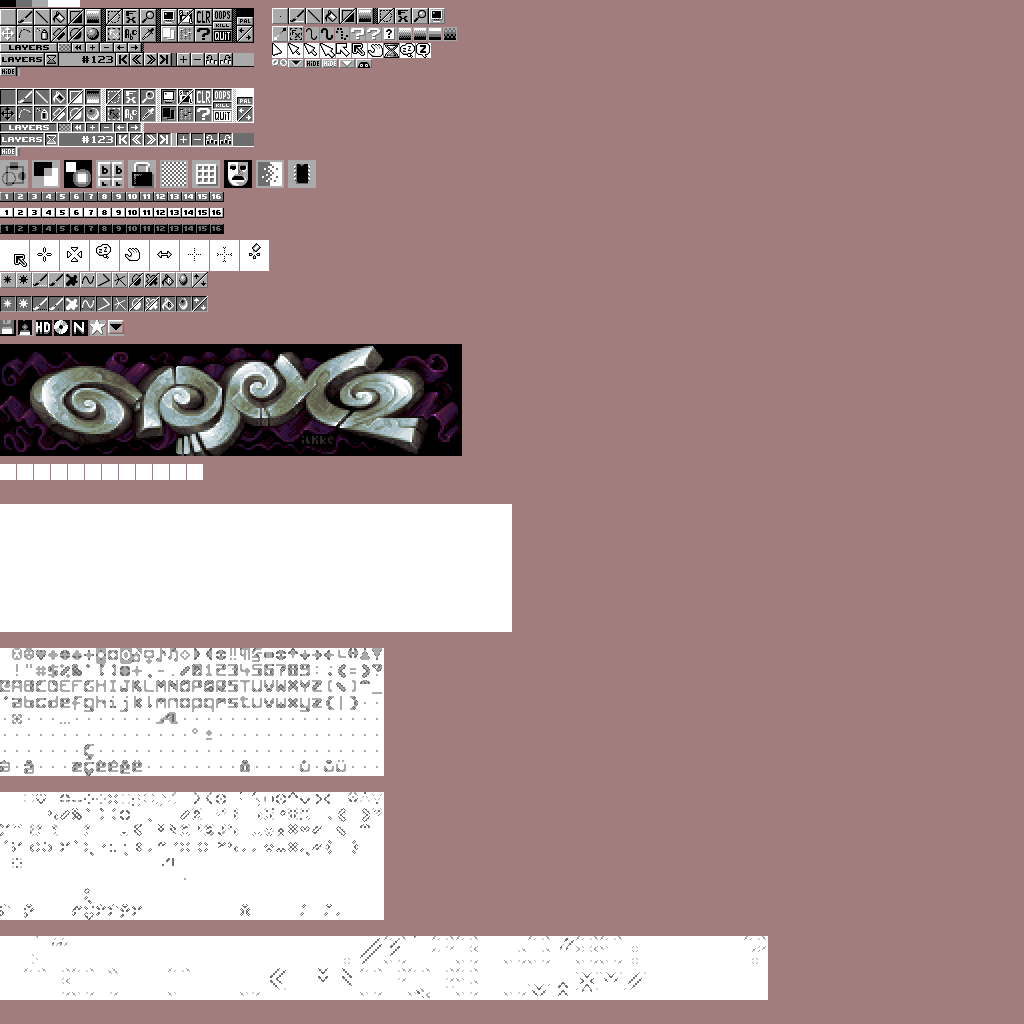
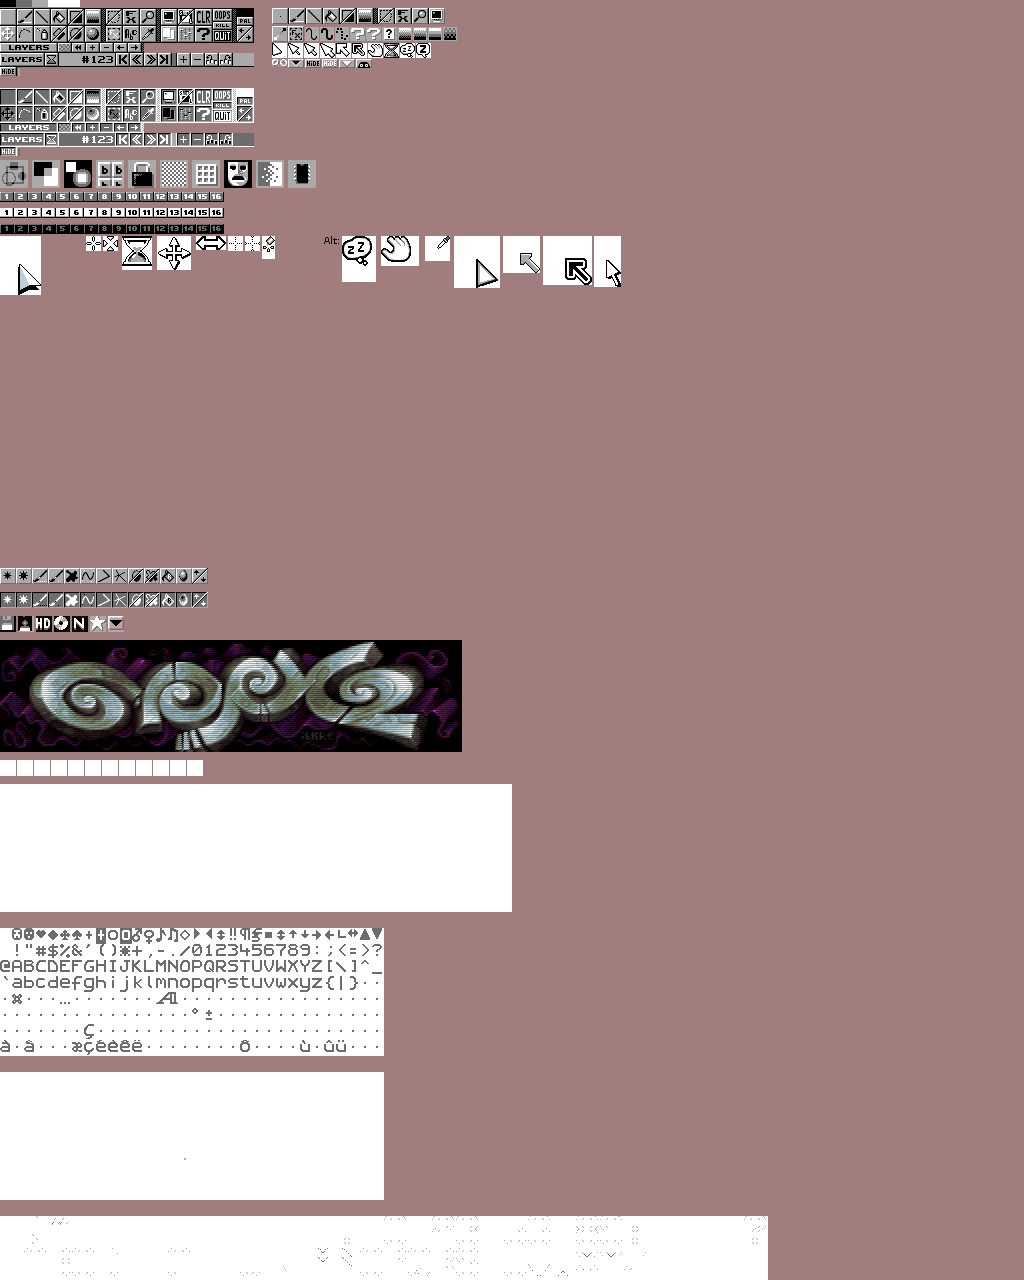
Mouse cursors now in variable resolutions
git-svn-id: svn://pulkomandy.tk/GrafX2/branches/sdl2@2149 416bcca6-2ee7-4201-b75f-2eb2f807beb1

Changed region(s): [[0.0, 0.0, 0.5, 0.8438], [0.0, 0.875, 0.75, 1.0], [0.3125, 0.1562, 0.625, 0.25]]

diff --git a/src/init.c b/src/init.c
@@ -208,50 +208,6 @@ byte Read_GUI_pattern(T_Gui_skin *gfx, SDL_Surface *gui, int start_x, int start_
   return 0;
 }
 
-void Center_GUI_cursor(T_Gui_skin *gfx, byte *cursor_buffer, int cursor_number)
-{
-  int x,y;
-  int start_x, start_y;
-  byte found;
-
-  // Locate first non-empty column
-  found=0;
-  for (start_x=0;start_x<14;start_x++)
-  {
-    for (y=0;y<29;y++)
-    {
-      if (cursor_buffer[y*29+start_x]!=gfx->Color_trans)
-      {
-        found=1;
-        break;
-      }
-    }
-    if (found)
-      break;
-  }
-  // Locate first non-empty line
-  found=0;
-  for (start_y=0;start_y<14;start_y++)
-  {
-    for (x=0;x<29;x++)
-    {
-      if (cursor_buffer[start_y*29+x]!=gfx->Color_trans)
-      {
-        found=1;
-        break;
-      }
-    }
-    if (found)
-      break;
-  }
-  gfx->Cursor_offset_X[cursor_number]=14-start_x;
-  gfx->Cursor_offset_Y[cursor_number]=14-start_y;
-
-  for (y=0;y<CURSOR_SPRITE_HEIGHT;y++)
-    for (x=0;x<CURSOR_SPRITE_WIDTH;x++)
-      gfx->Cursor_sprite[cursor_number][y][x]=cursor_buffer[(start_y+y)*29+start_x+x];
-}
-
 byte Parse_skin(SDL_Surface * gui, T_Gui_skin *gfx)
 {
   int i,j;
@@ -262,7 +218,6 @@ byte Parse_skin(SDL_Surface * gui, T_Gui_skin *gfx)
   int char_2=0;  // grands titres de l'aide. Chaque indice avance dans 
   int char_3=0;  // l'une des fontes dans l'ordre :  1 2
   int char_4=0;  //                                  3 4
-  byte mouse_cursor_area[31][29];
   SDL_Palette * SDLPal;
   
   // Default palette
@@ -462,6 +417,9 @@ byte Parse_skin(SDL_Surface * gui, T_Gui_skin *gfx)
   // Mouse cursors
   for (i=0; i<NB_CURSOR_SPRITES; i++)
   {
+    int width=0;
+    int height=0;
+    
     if (i==0)
     {
       if (GUI_seek_down(gui, &cursor_x, &cursor_y, neutral_color, "mouse cursor"))
@@ -472,15 +430,20 @@ byte Parse_skin(SDL_Surface * gui, T_Gui_skin *gfx)
       if (GUI_seek_right(gui, &cursor_x, cursor_y, neutral_color, "mouse cursor"))
         return 1;
     }
-    if (Read_GUI_block(gfx, gui, cursor_x, cursor_y, mouse_cursor_area, 29, 31, "mouse cursor",1))
-      return 1;
-    Center_GUI_cursor(gfx, (byte *)mouse_cursor_area,i);
+    do
+      width++;
+    while(cursor_x + width <= gui->w && Get_SDL_pixel_8(gui, cursor_x + width, cursor_y) != neutral_color);
+    do 
+      height++;
+    while(cursor_y + height <= gui->h && Get_SDL_pixel_8(gui, cursor_x, cursor_y + height) != neutral_color);
     
-    gfx->Mouse_cursor[i] = Create_texture(gui, cursor_x, cursor_y, 29, 31);
-    cursor_x+=29;
+    
+    gfx->Mouse_cursor_width[i] = width;
+    gfx->Mouse_cursor_height[i] = height;
+    gfx->Mouse_cursor[i] = Create_texture(gui, cursor_x, cursor_y, width, height);
+    cursor_x+=width;
   }
-  cursor_y+=31;
-
+  cursor_y+=gfx->Mouse_cursor_height[0];
   
 
   // Menu sprites

diff --git a/src/sdlscreen.c b/src/sdlscreen.c
@@ -436,11 +436,11 @@ void Flush_update(void)
     {
       if (shape==CURSOR_SHAPE_ARROW || shape==CURSOR_SHAPE_HOURGLASS || shape==CURSOR_SHAPE_HORIZONTAL)
       {
-        // These shapes are always scaled to UI factor.
-        x_factor = Menu_factor_X;
-        y_factor = Menu_factor_Y;
-        r.x = Mouse_X-14*x_factor;
-        r.y = Mouse_Y-15*y_factor;
+        // These shapes used to be scaled to UI factor, but no longer.
+        x_factor = 1;//Menu_factor_X;
+        y_factor = 1;//Menu_factor_Y;
+        r.x = Mouse_X-Gfx->Mouse_cursor_width[shape]/2*x_factor;
+        r.y = Mouse_Y-Gfx->Mouse_cursor_height[shape]/2*y_factor;
       }
       else
       {
@@ -471,15 +471,15 @@ void Flush_update(void)
           x_factor = y_factor = Min(
             Min(Main_magnifier_factor * Pixel_width, Menu_factor_X),
             Min(Main_magnifier_factor * Pixel_height, Menu_factor_Y));
-          r.x = (Mouse_X-Main_X_zoom)/x_factor*x_factor+Main_X_zoom -14*x_factor;
-          r.y = (Mouse_Y/y_factor-15)*y_factor;
+          r.x = (Mouse_X-Main_X_zoom)/x_factor*x_factor+Main_X_zoom -Gfx->Mouse_cursor_width[shape]/2*x_factor;
+          r.y = (Mouse_Y/y_factor-Gfx->Mouse_cursor_height[shape]/2)*y_factor;
         }
         else
         {
           x_factor = Pixel_width;
           y_factor = Pixel_height;
-          r.x = (Mouse_X/x_factor-14)*x_factor;
-          r.y = (Mouse_Y/y_factor-15)*y_factor;
+          r.x = (Mouse_X/x_factor-Gfx->Mouse_cursor_width[shape]/2)*x_factor;
+          r.y = (Mouse_Y/y_factor-Gfx->Mouse_cursor_height[shape]/2)*y_factor;
         }
       }
     
@@ -496,8 +496,8 @@ void Flush_update(void)
       //  CURSOR_SHAPE_XOR_RECTANGLE     
       //  CURSOR_SHAPE_XOR_ROTATION      
       
-        r.w = 29*x_factor;
-        r.h = 31*y_factor;
+        r.w = Gfx->Mouse_cursor_width[shape]*x_factor;
+        r.h = Gfx->Mouse_cursor_height[shape]*y_factor;
       SDL_RenderCopy(Renderer_SDL, Gfx->Mouse_cursor[shape], NULL, &r);
     } 
   } while(0);

diff --git a/src/struct.h b/src/struct.h
@@ -454,15 +454,9 @@ typedef struct
   int Factor;
 
   // Mouse
-  
-  /// X coordinate of the mouse cursor's "hot spot". It is < ::CURSOR_SPRITE_WIDTH
-  word Cursor_offset_X[NB_CURSOR_SPRITES];
-  /// Y coordinate of the mouse cursor's "hot spot". It is < ::CURSOR_SPRITE_HEIGHT
-  word Cursor_offset_Y[NB_CURSOR_SPRITES];
-  /// Graphic resources for the mouse cursor.
-  byte Cursor_sprite[NB_CURSOR_SPRITES][CURSOR_SPRITE_HEIGHT][CURSOR_SPRITE_WIDTH];
-
   SDL_Texture *Mouse_cursor[NB_CURSOR_SPRITES];
+  int Mouse_cursor_width[NB_CURSOR_SPRITES];
+  int Mouse_cursor_height[NB_CURSOR_SPRITES];
 
   // Sieve patterns
   
